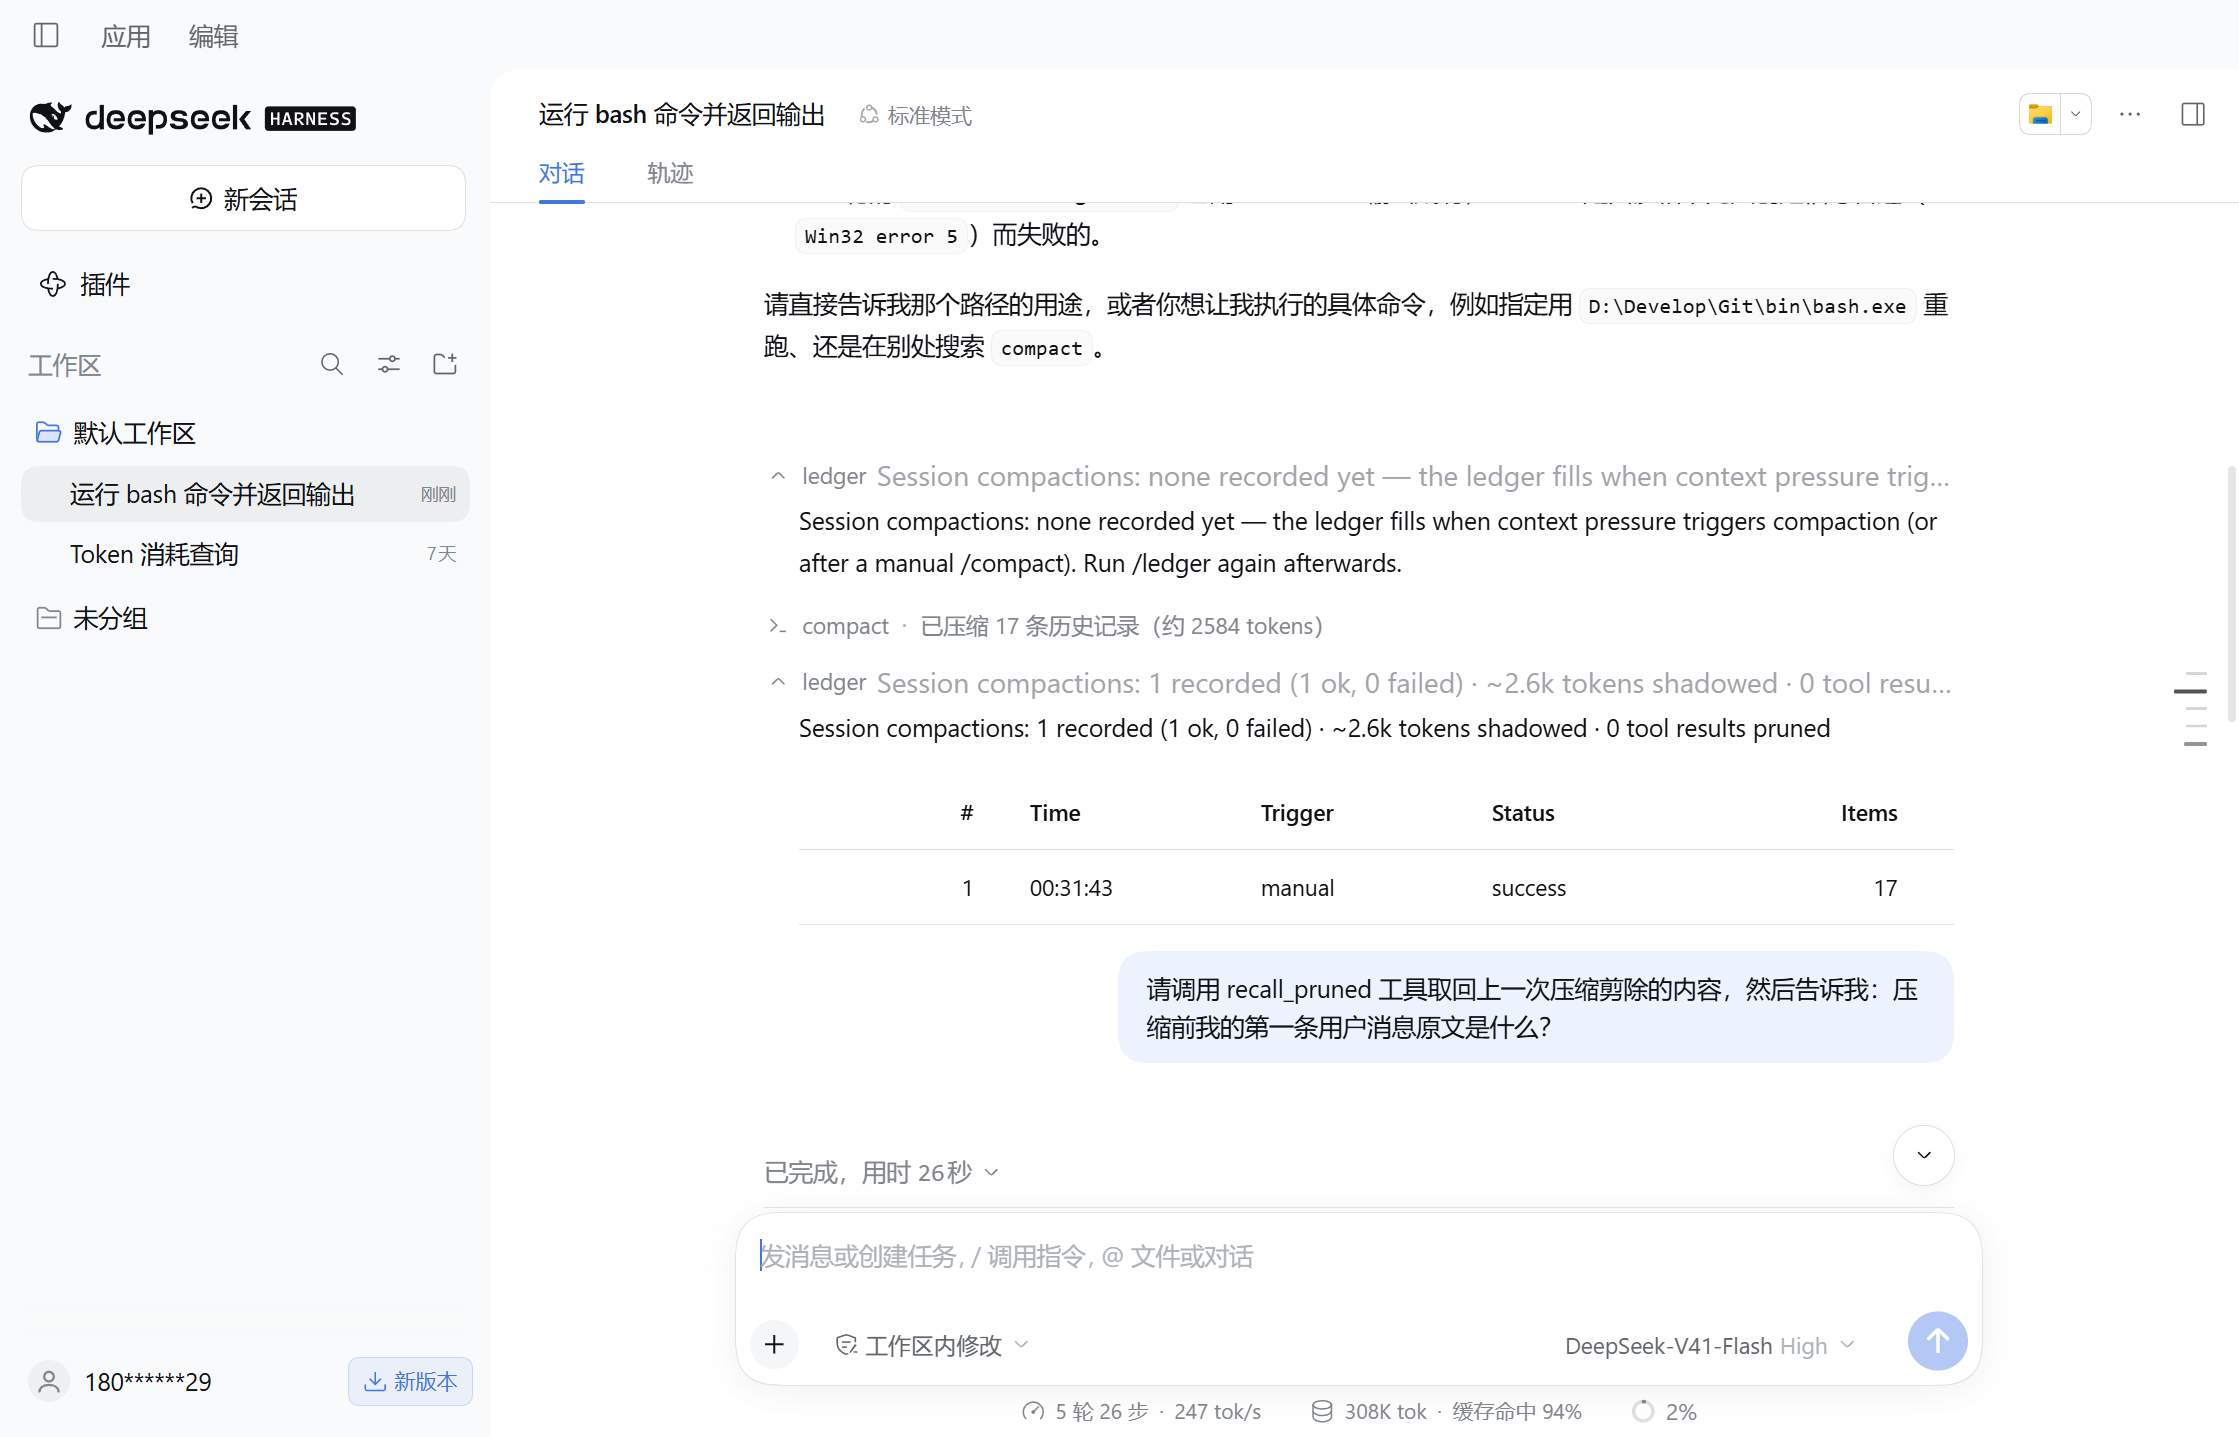
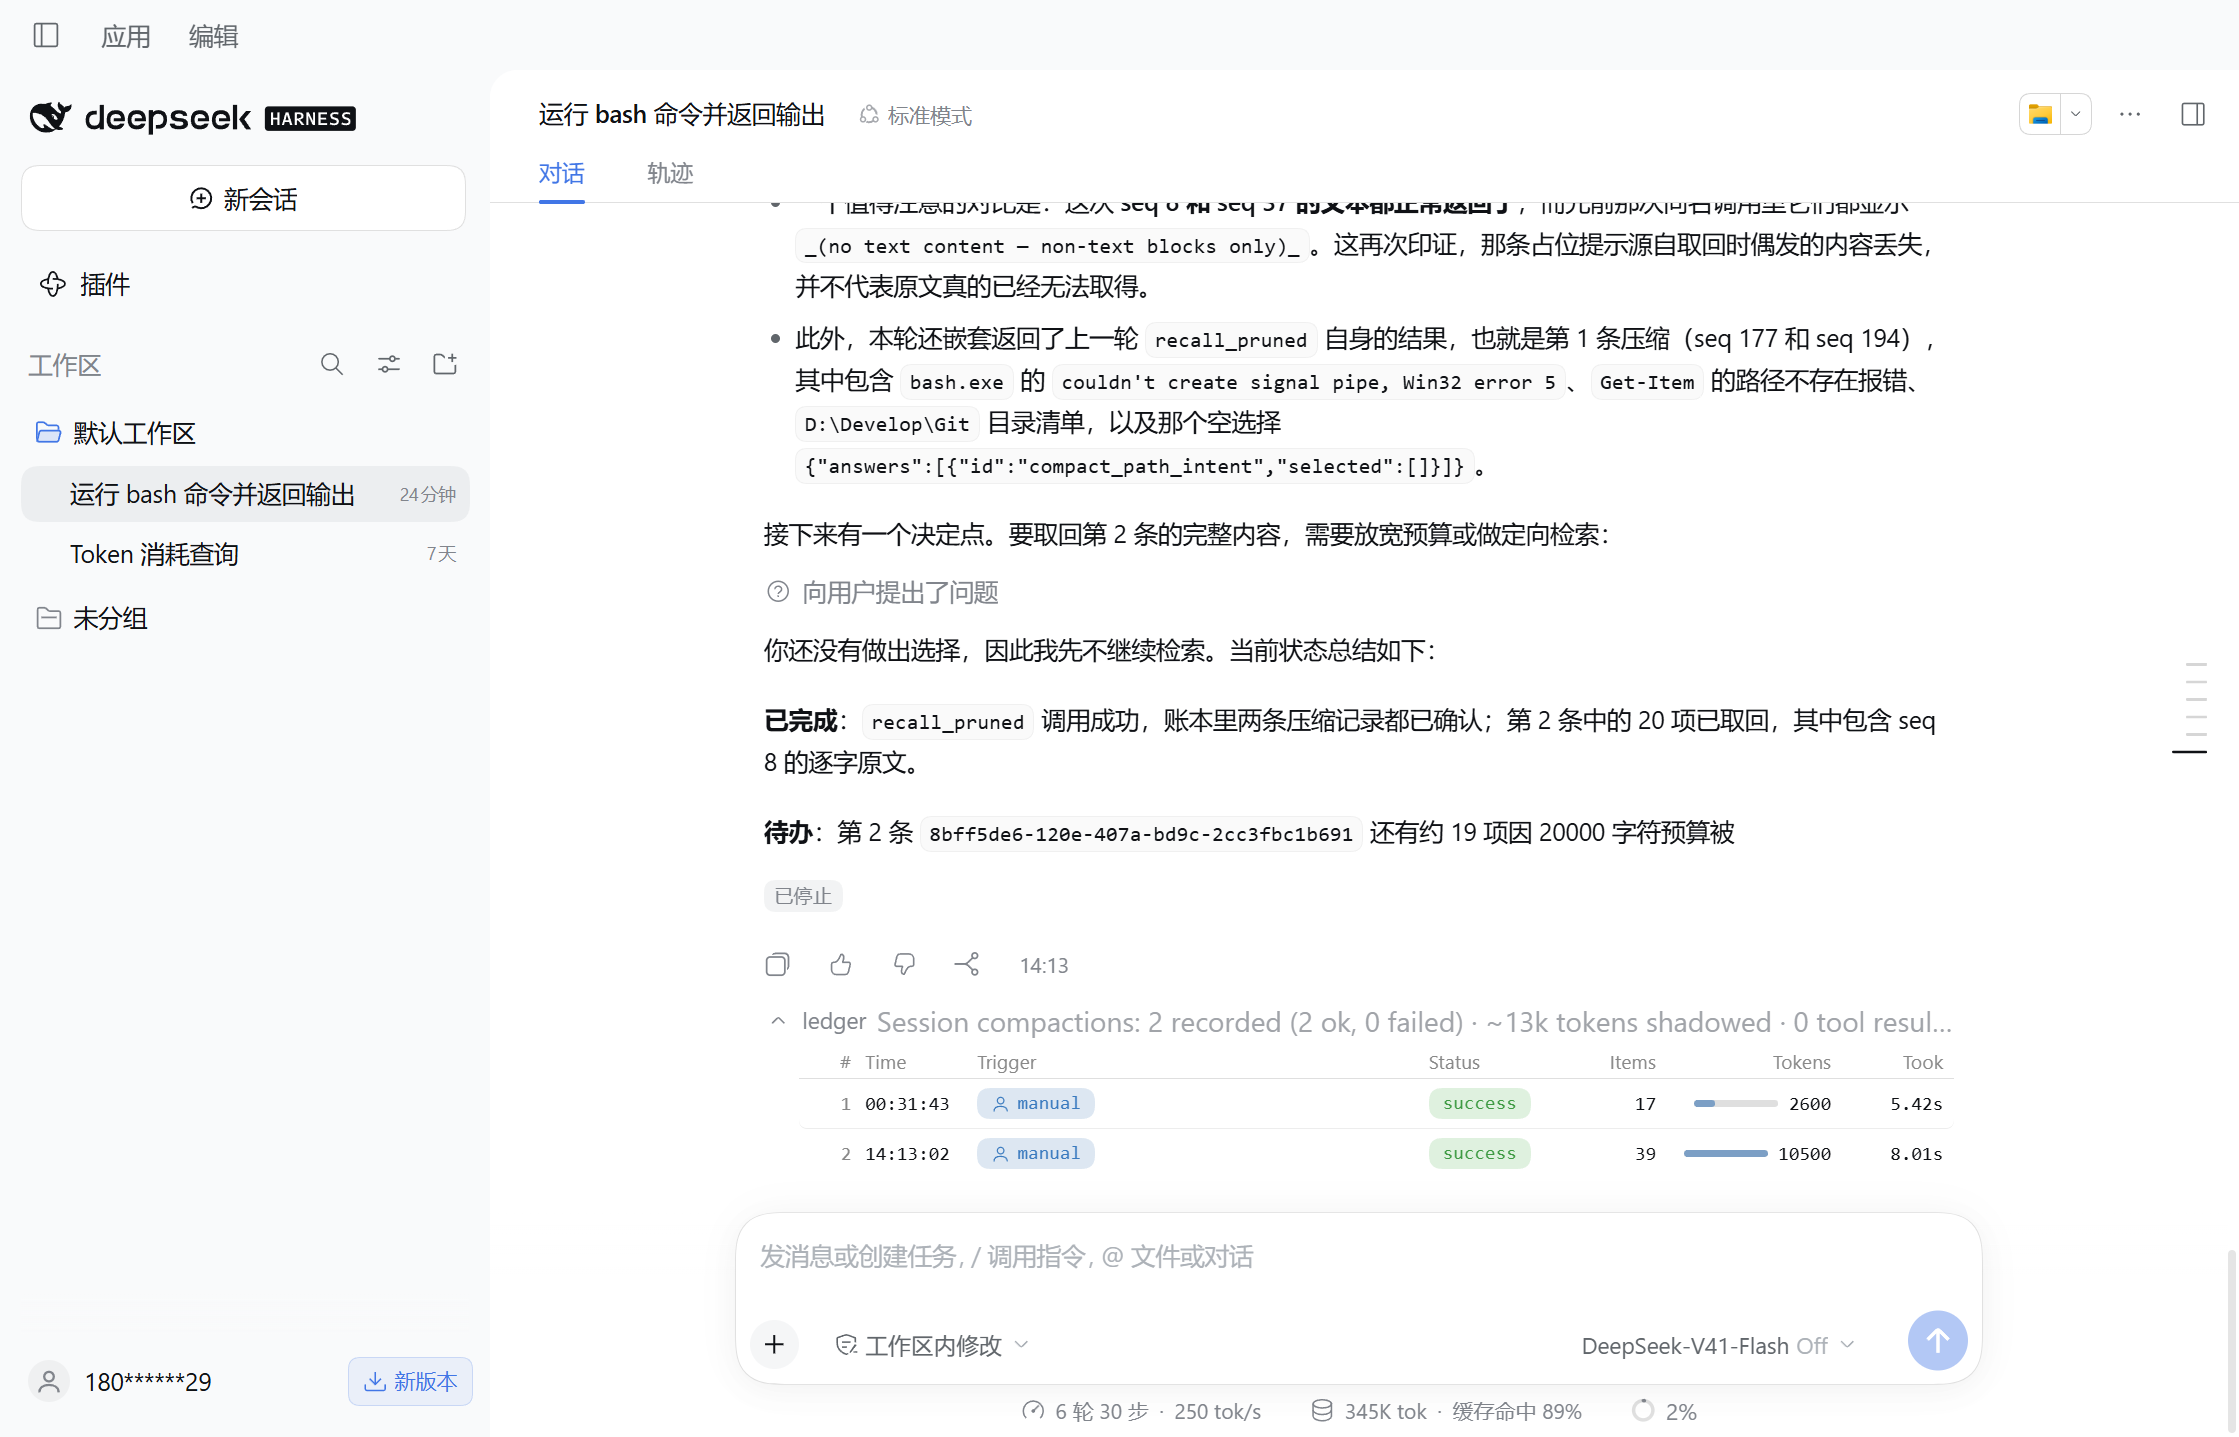
docs: capture the styled ledger card, release 0.1.1

diff --git a/CHANGELOG.md b/CHANGELOG.md
@@ -1,5 +1,13 @@
 # Changelog
 
+## 0.1.1 (2026-10-18)
+
+Styled native cards for the ledger and recall results.
+
+- **`/ledger` table** — custom grid instead of a raw Markdown table: colored status badges (success/failed/running), trigger chips with icons (manual/auto), per-row token-share bars, right-aligned monospace numerals, row hover separation. Full-mode detail keeps Markdown below the grid.
+- **`recall_pruned` cards** — each recalled item renders as its own card with a `seq` chip, a role badge (user/assistant/tool), a scroll-bounded monospace body, and an amber banner for truncation notices.
+- **Format contract** — the client parses the host's deterministic report text; the parsers are pinned by cross-layer sync tests that feed the real `renderReport`/`buildRecall` output through them on every test run. Any parse miss falls back to Markdown rendering, and missing primitives still degrade to monospace — the card can only get simpler, never broken.
+
 ## 0.1.0 (2026-10-18)
 
 Initial release.
